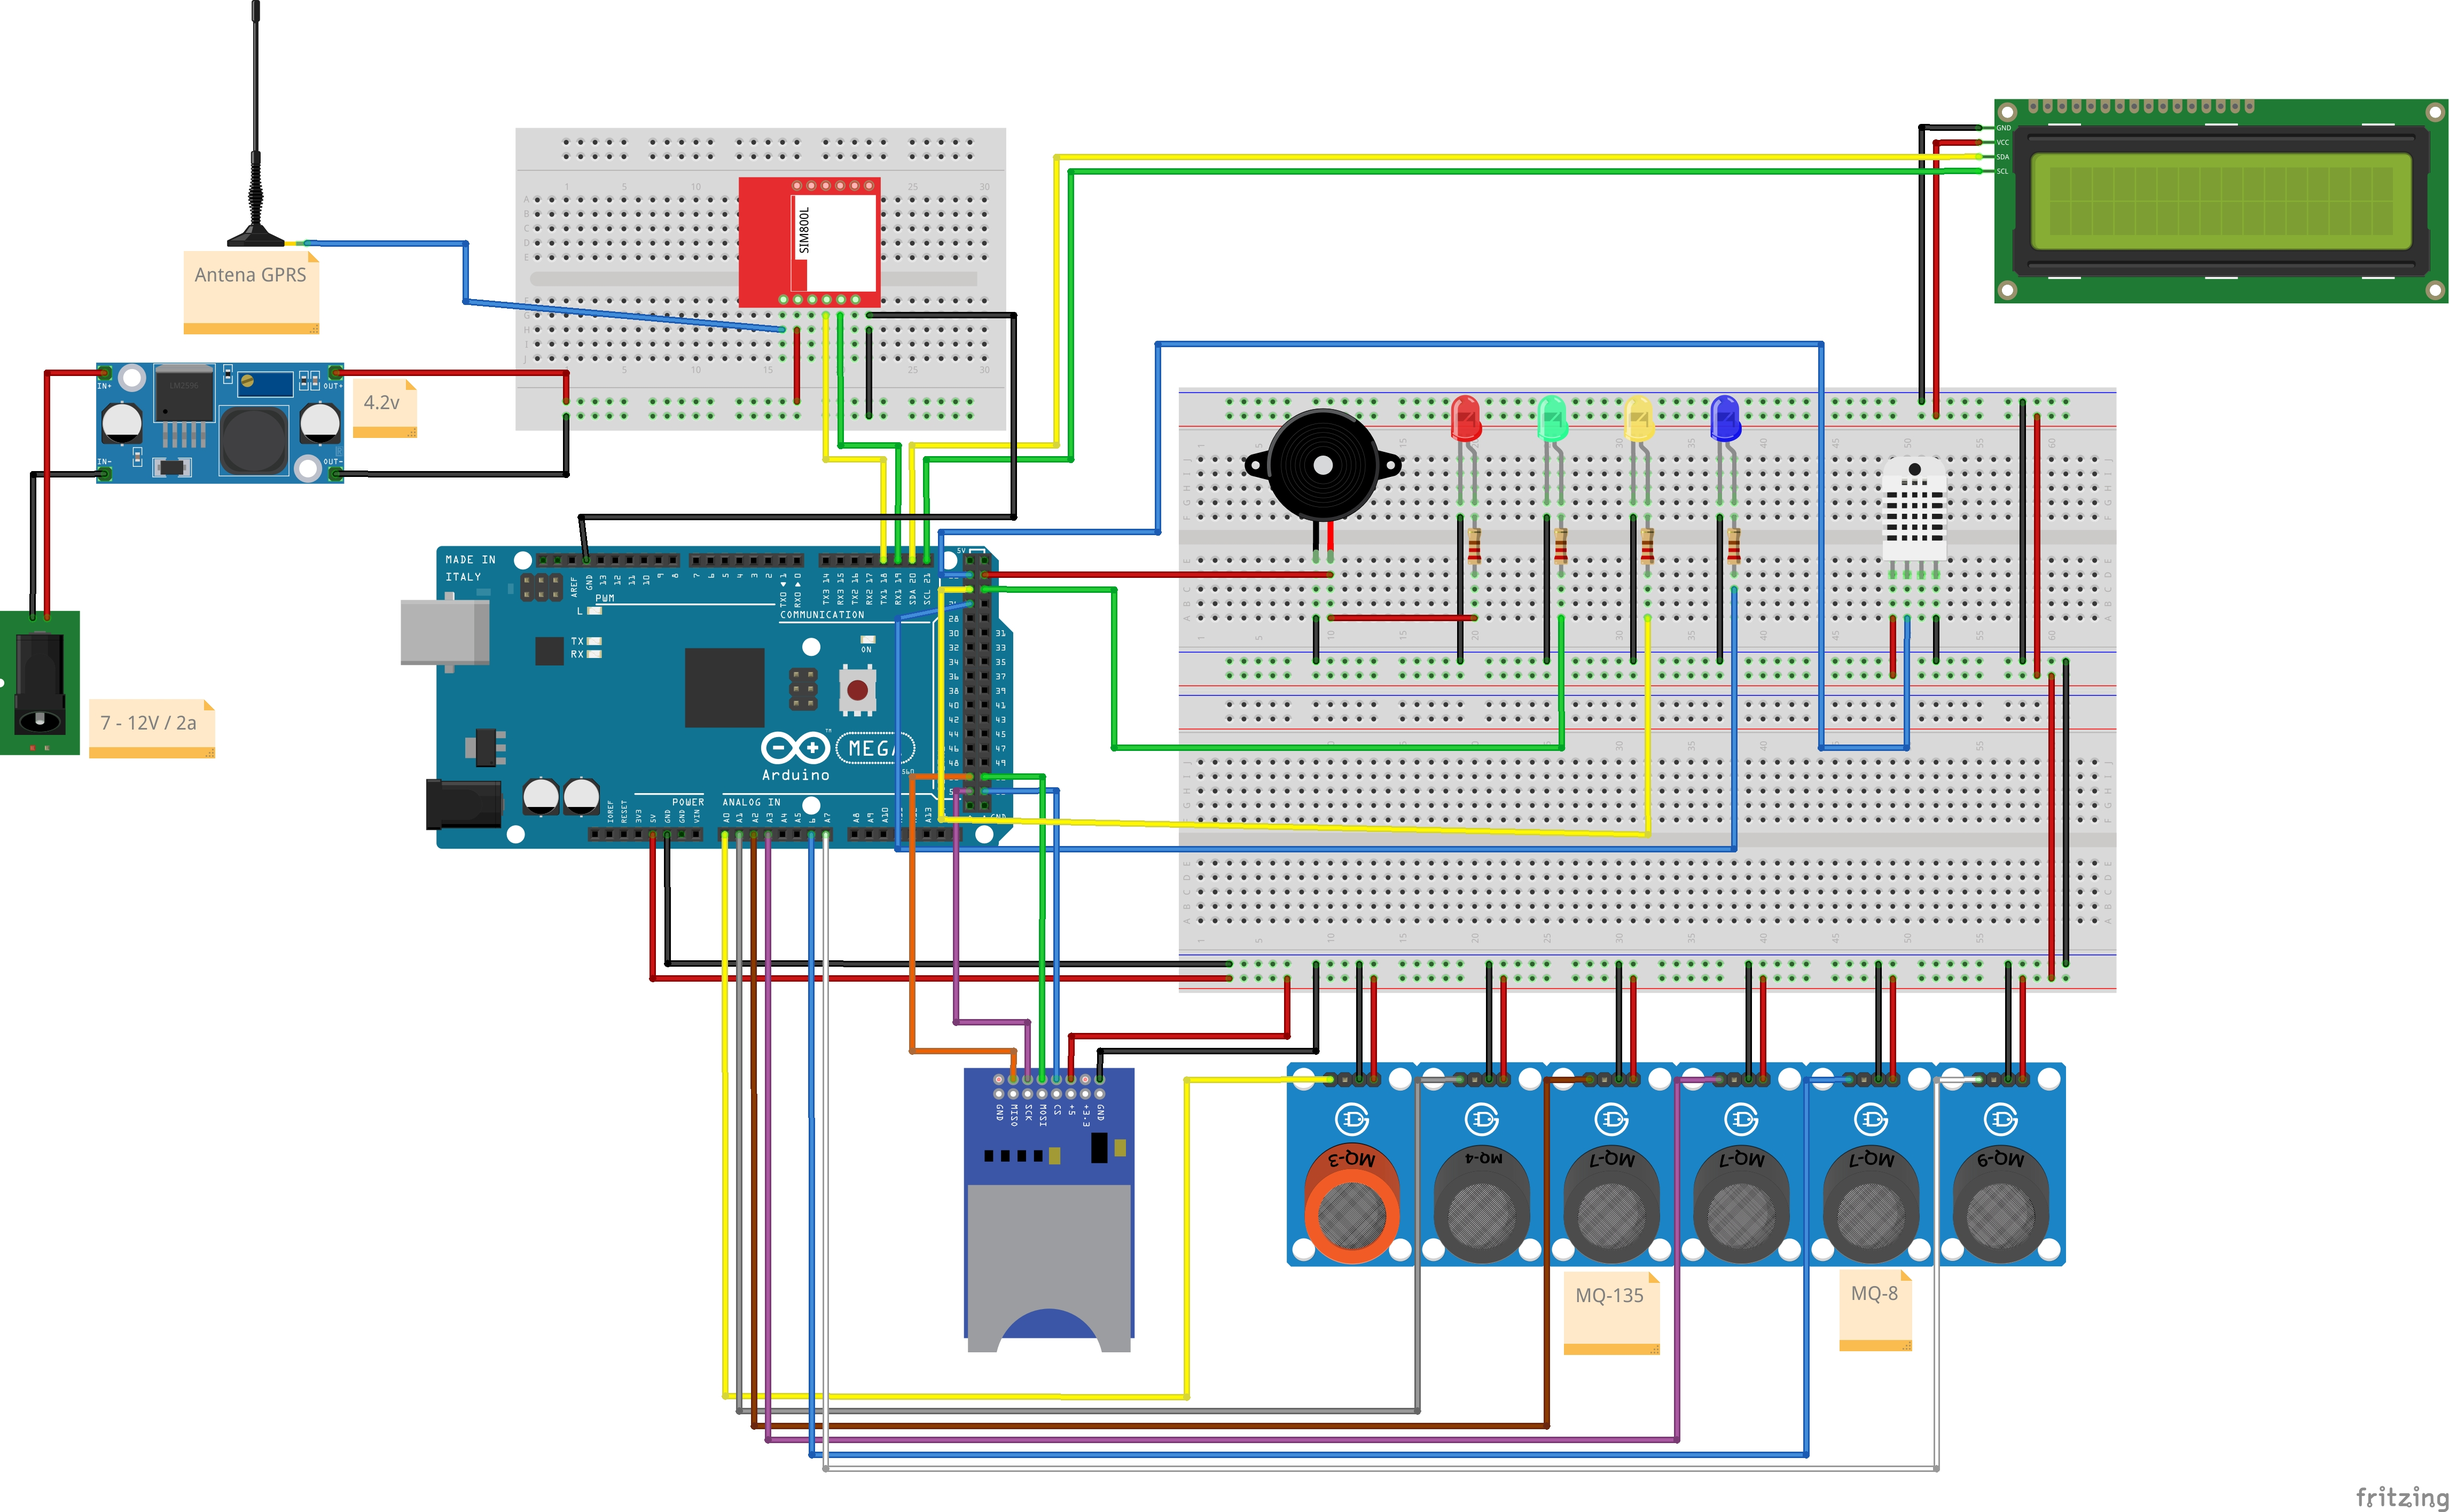
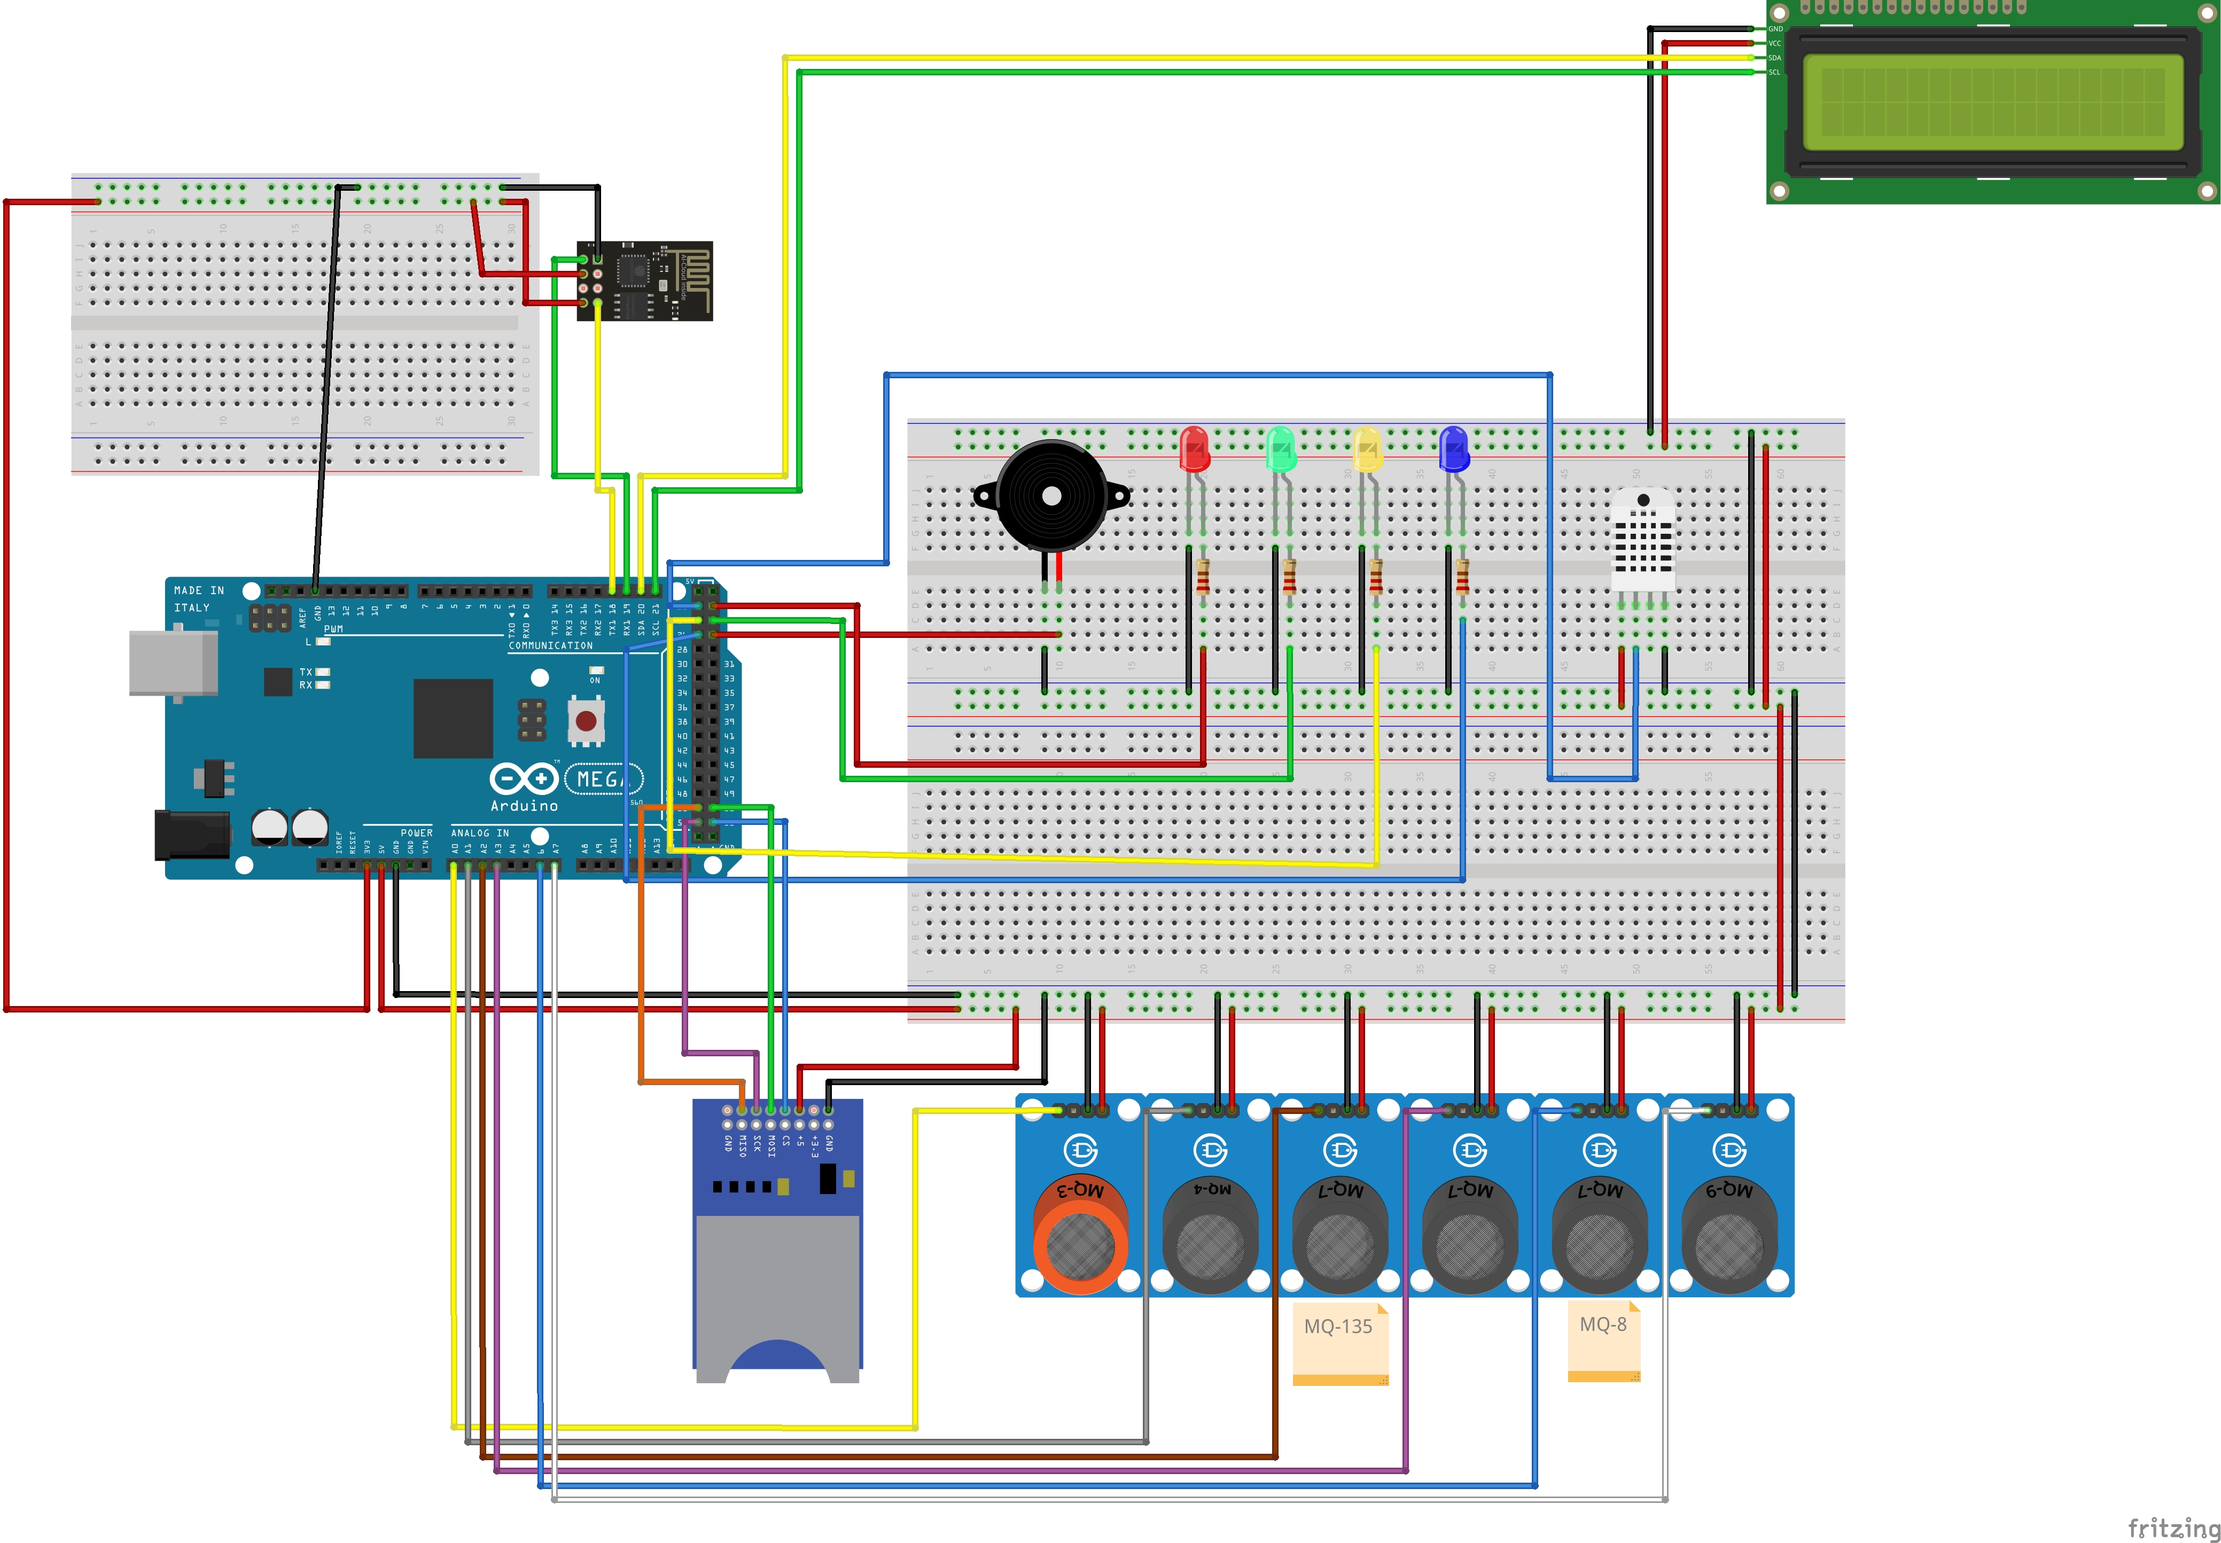
Suporte a execucao por wi-fi

diff --git a/README.md b/README.md
@@ -9,8 +9,7 @@ O `J3M` efetua as medições por determinado tempo e esse tempo é configurado n
 ---
 
 - `Arduino Mega`: O `Arduino` que recebe os dados dos sensores e prepara para serem enviados a `API`.
-- `SIM800L`: Módulo de cartão SIM que faz o envio dos dados obtidos pelo `Arduino` para a `API`.
-- `Antena GPRS`: Responsável pela captação de sinal para a operação do módulo `SIM800L`.
+- `ESP-01`: Módulo de `wi-fi` que faz o envio dos dados obtidos pelo `Arduino` para a `API`.
 - `Leitor de Cartão Micro SD`: Também conhecido como leitor de cartão de memória, onde fica o arquivo de configurações (Presente na raiz desse projeto, vide o arquivo `config.txt`), esse arquivo é lido e configura algumas coisas como `IP`/`Host` da `API` e `ID` do dispositivo.
 - `Buzzer`: Responsável por emitir avisos sonoros através de beeps caso haja algum erro no cartão SD.
 - `LEDs`:
@@ -19,8 +18,6 @@ O `J3M` efetua as medições por determinado tempo e esse tempo é configurado n
     - `Verde`: Indica que a métrica foi efetuada e enviada a `API` (Somente 1 piscada de 1 segundo).
     - `Azul` Indica que está enviando uma requisição `HTTP` para a `API` (Permanece ligado durante todo o envio da requisição).
 - `Resistores de 220 Ohms`: Para diminuir um pouco a alimentação dos `LEDs`, para não correr o risco de queimar os mesmos.
-- `Lm2596`: Uma fonte de stepdown para alimentar o módulo `SIM800L`, (Pois o módulo só pode operar com tensão entre `3.4v` e `4.4v`), essa fonte foi regulada para `4.2v` para uso nesse projeto.
-- `Fonte de 7v a 12v`: A fonte para alimentar o módulo `SIM800L` através do `Lm2596` deve conter de `7v a 12v` e também ser uma fonte de `2A`, pois o módulo necessita dessa corrente para pleno funcionamento. (Para esse projeto, foi utilizada uma fonte de `9v` e `2A`).
 - `DHT22`: Responsável por medir a temperatura e a umidade do ambiente.
 - `MQ3`: Responsável por medir o álcool, benzeno e hexano no ambiente.
 - `MQ4`: Responsável por medir o metano e fumaça no ambiente.
